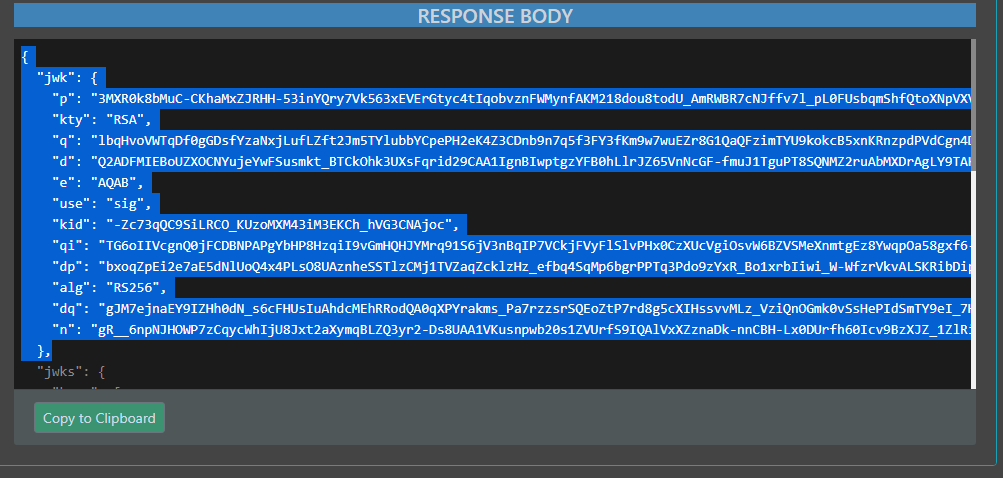
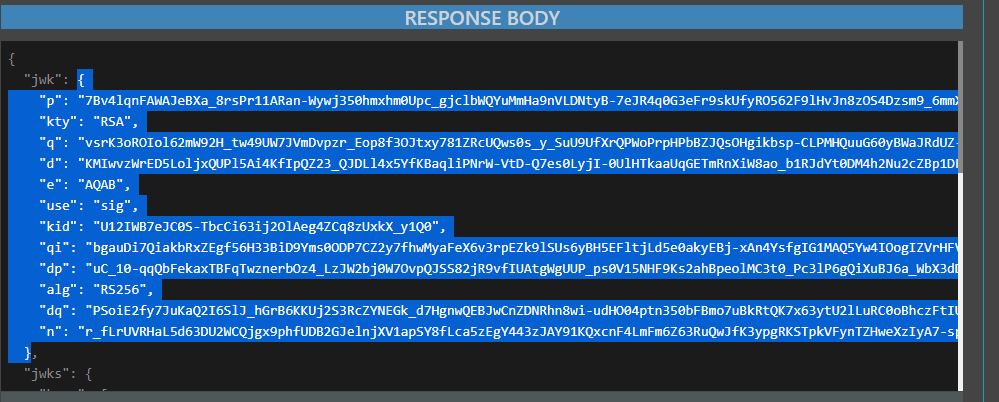
[MOSIP-27574]Corrected screenshot and rectified README.md file.

diff --git a/README.md b/README.md
@@ -59,11 +59,11 @@ Repository contains mock implementation of auth for e-signet
 *  Below mentioned onboarding steps are added after 1.2.0.1-b3
    *  Onboarding the default demo-oidc partner
 
-###.Onboarding the default resident-oidc partner
+###.Onboarding the default demo-oidc partner
 *  After successfull partner onboarder run for demo-oidc partner , download html reports from `onboarder` bucket of object store .
 *  Get `CLIENT_ID` from  response body of  request `create-oidc-client` from the report **_demo-oidc.html_**
 *  Update deployment of `mock-relying-party-ui` in esignet namespace with `CLIENT_ID` value from last step .
 *  As per screenshot get the private and public key pair (shown as selected in the screenshot )from the response of the `get-jwks` request from the report **_demo-oidc.html_** 
    ![](docs/images/get-jwks-details.PNG)
-*  Update `client-private-key` in esignet namespace with  `base64 encoded` value of the keypair from previous step.
+*  Update `client-private-key` inside  storage in esignet namespace with  `base64 encoded` value of the keypair from previous step.
 *  Restart mock-relying-party-service pod
